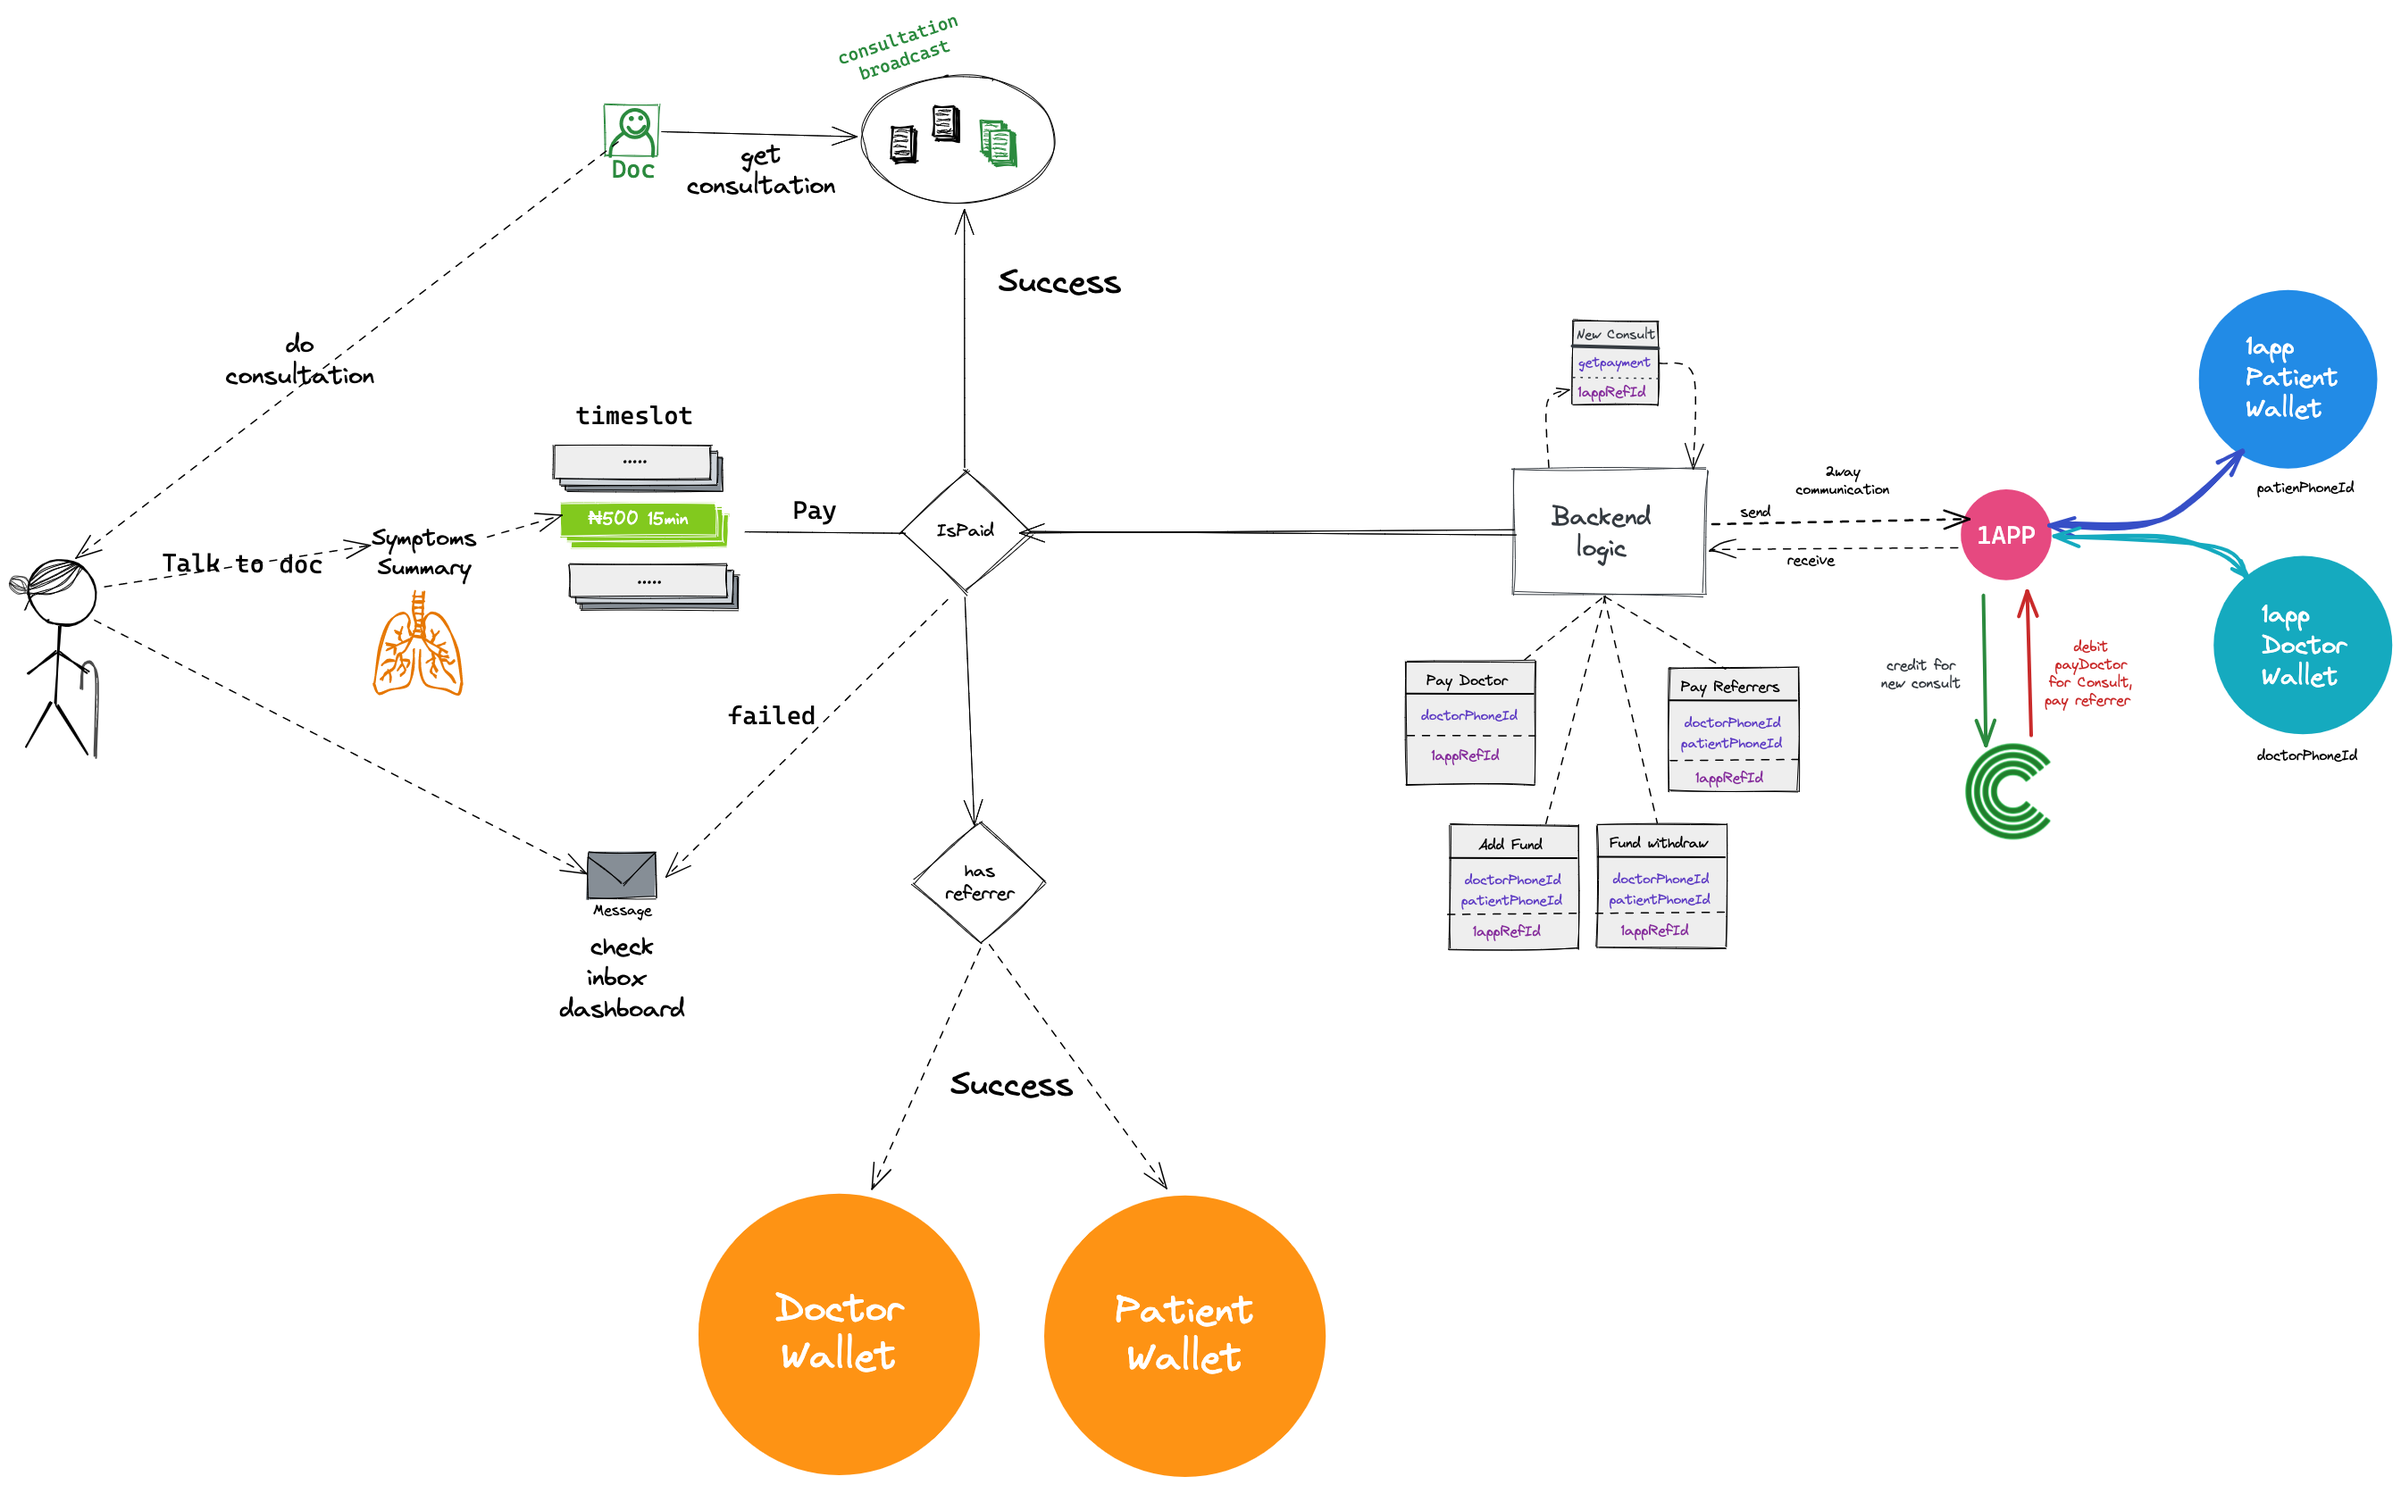
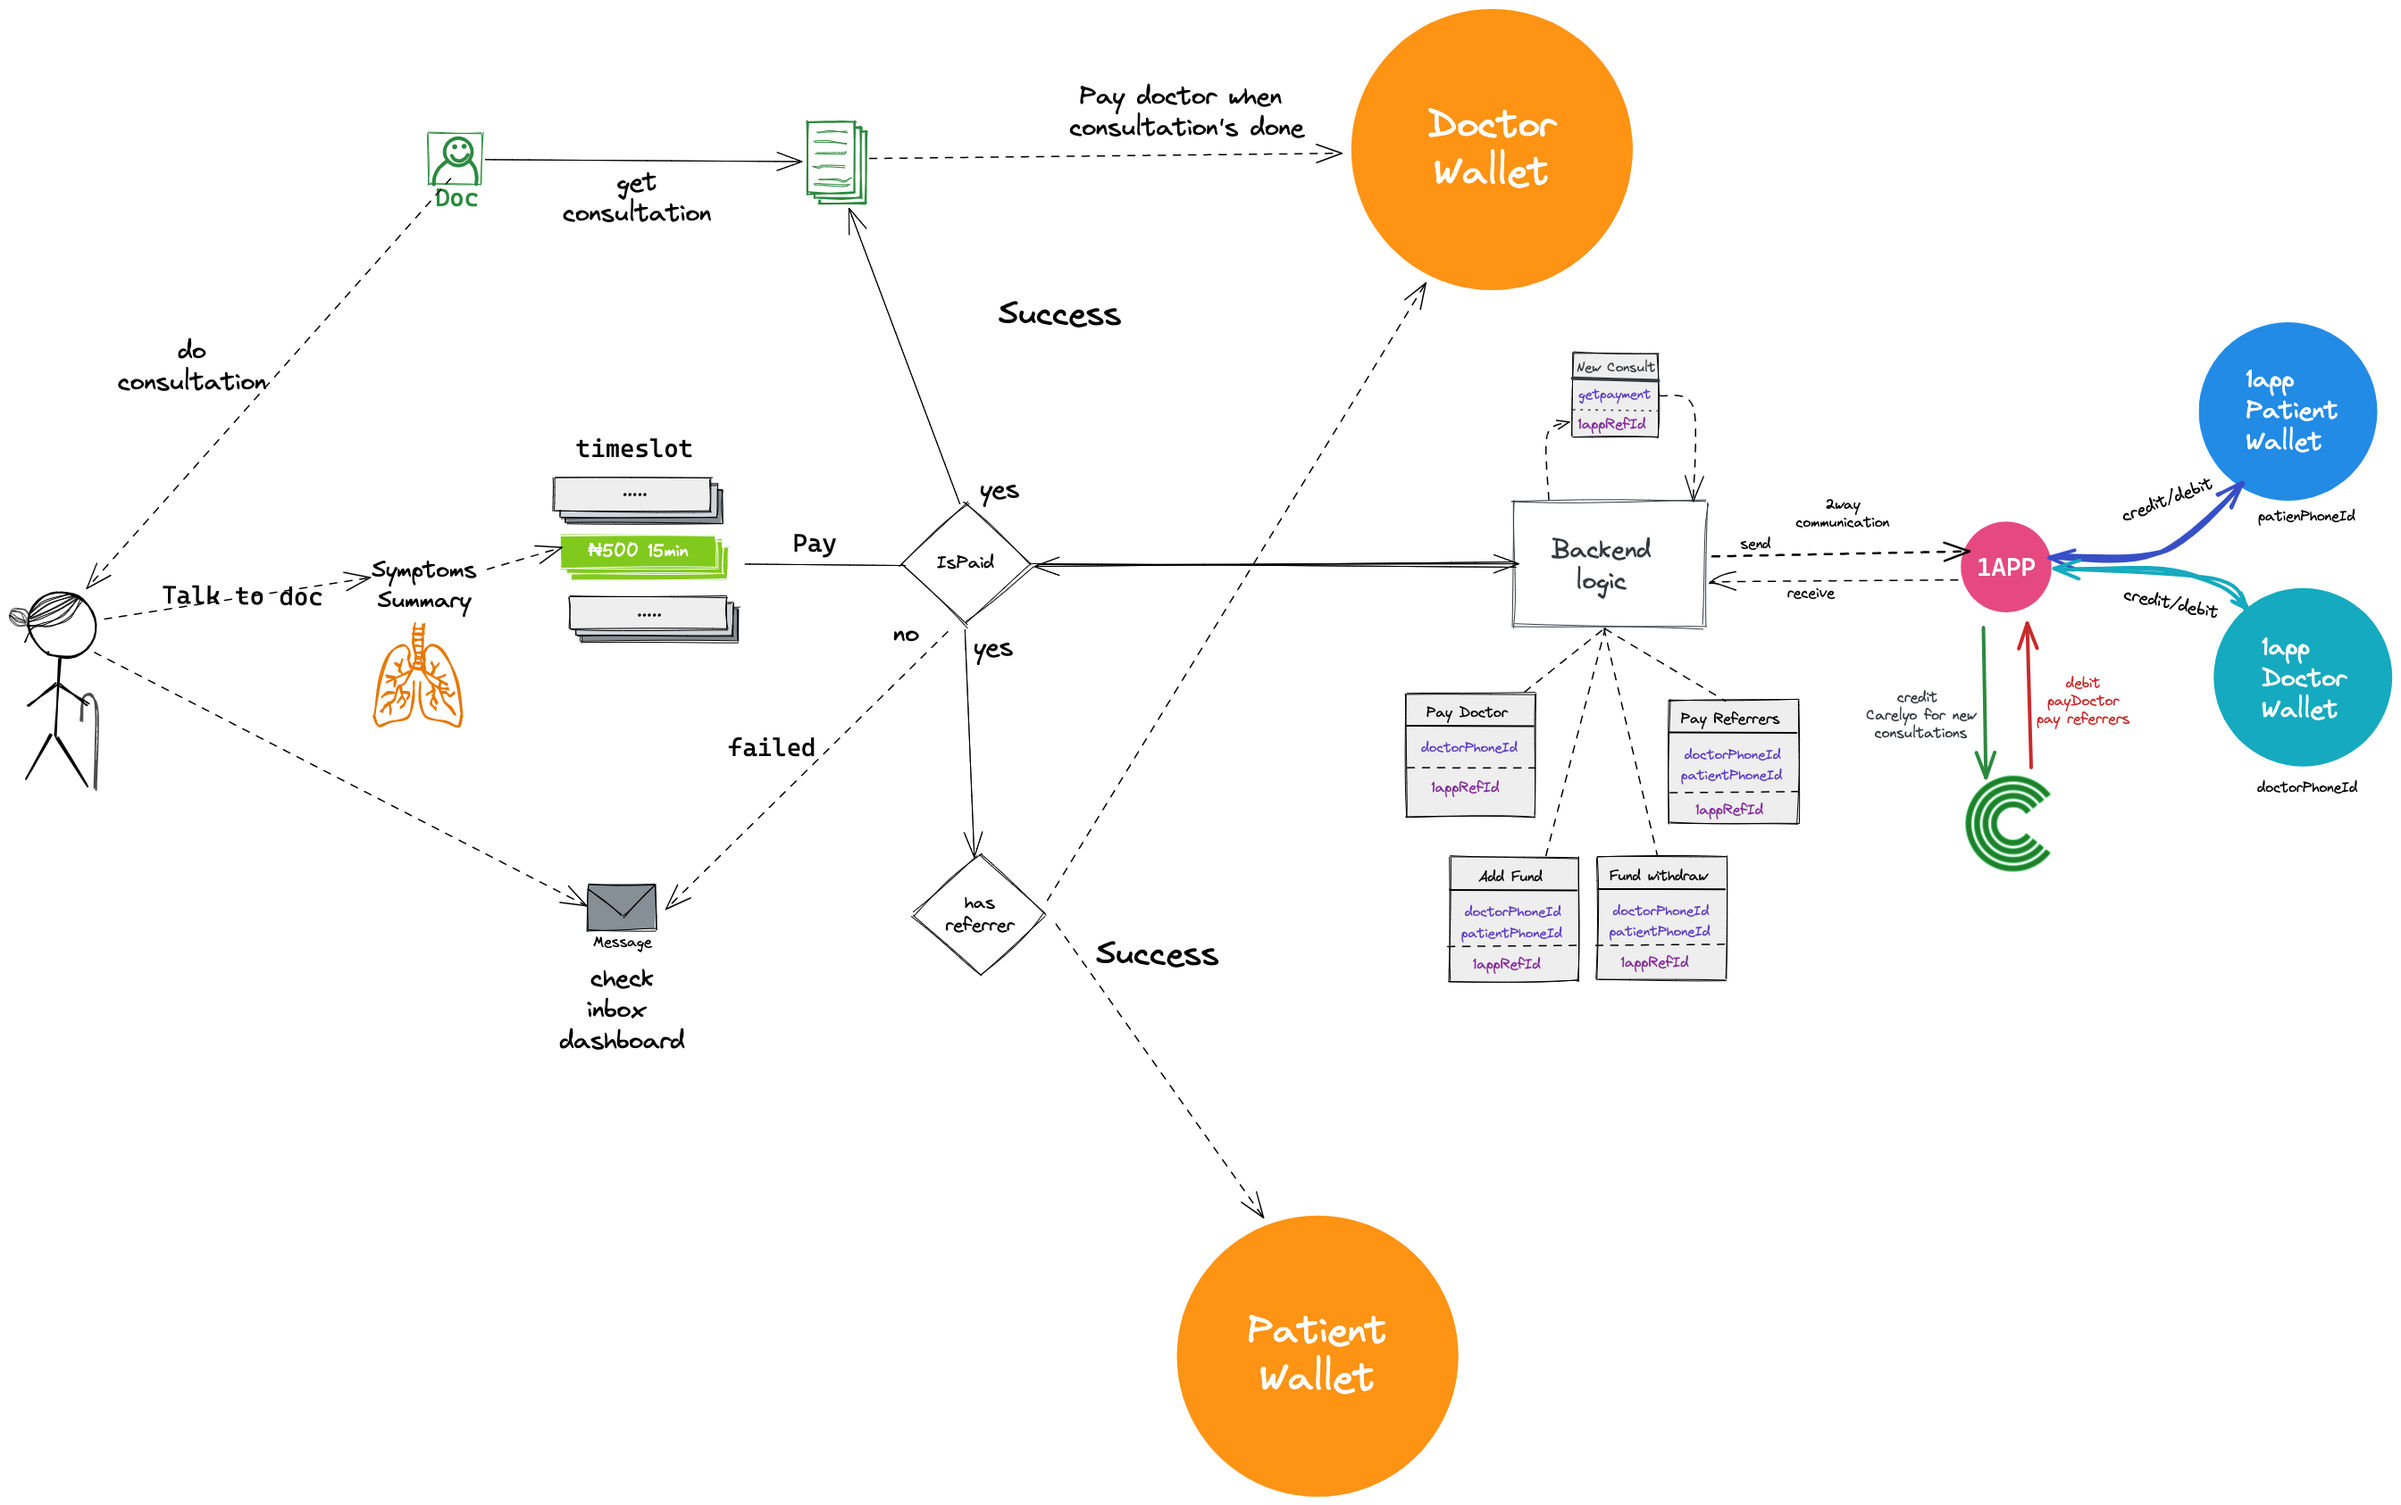
modified payment & devops

diff --git a/docs/gettingstarted/workbench/devops.md b/docs/gettingstarted/workbench/devops.md
@@ -4,11 +4,11 @@ sidebar_label: DevOps
 ---
 # Carelyo DevOps Workbench
 
-# Pipeline introduction
+## Pipeline introduction
 The basic pipeline files can be found [here](https://gitlab.com/carelyo/ci_cd-pipeline-files). 
 
-# Files
-## main.yml
+## Files
+### main.yml
 
 This is the main pipeline for building images on merge requests and pushing them to DockerHub. It's a heavily modified version of the [Docker CI/CD template from GitLab](https://gitlab.com/gitlab-org/gitlab-foss/-/blob/master/lib/gitlab/ci/templates/Docker.gitlab-ci.yml).
 
@@ -22,10 +22,10 @@ It **only** runs on Develop, Staging and main branches with a Dockerfile thanks 
 
 This can also be changed on a per-repo basis after importing ``ci_cd-pipeline-files/main.yml``.
 
-# GitLab configuration
+## GitLab configuration
 The variables used in the `gitlab-ci.yml` are set on a group-wide level through [its settings](https://gitlab.com/groups/carelyo/-/settings/ci_cd). It's also possible to set these on a per-project basis.
 
-## Variables
+### Variables
  - `CI_REGISTRY` is where the DockerHub repo URL is stored.  
  - - These variables [are masked](https://docs.gitlab.com/ee/ci/variables/index.html#mask-a-cicd-variable), meaning they won't show up in job logs in plain text.
  - - `CI_REGISTRY_PASSWORD` is the DockerHub access token. The normal password is possible too but is less secure in case someone gains access to the GitLab account. Also it's not posssible to mask certain passwords(meaning ones with special characters etc).
@@ -39,7 +39,7 @@ The variables used in the `gitlab-ci.yml` are set on a group-wide level through 
 * Log/Monitoring Server is logkib01 - 10.234.0.215
 
 
-## Checkmk
+### Checkmk
 
 Checkmk is free and open source. We are running the enterprise edition which allows us monitor 25 nodes for free. We can also us the open source version.
 
@@ -64,7 +64,7 @@ cd monitor
 touch docker-compose.yml
 ```
 
-## Edit the docker-compose file using vi
+**Edit the docker-compose file using vi**
 
 ```bash
 version: '3.1'
@@ -94,7 +94,7 @@ docker-compose up -d
 docker-compose logs -f --tail="all"
 ```
 
-## Open Firewall and Network Security Group
+### Open Firewall/Network Security Group
 
 ### Ingress Rule
 This allows only you IP to access this resource
@@ -104,7 +104,7 @@ Allow source your homeIP i.e., 10.0.0.2/32 and port 8080
 ### Login in to Checkmk server
 Server IP:8080
 
-## Add Agents
+### Add Agents
 To add anagent 
 - Clicck Setup > Agents > Windows, Linus, Solaris, AIX
 - Since we are monitoring Ubuntu, click the Linux DEB to download the agent
@@ -117,7 +117,7 @@ scp check-mk-agent_2.0.0p17-74a3d18d9c2e1ce4_all.deb ubuntuserver:/tmp
 ## install the agent
 dpkg -i check-mk-agent_2.0.0p17-74a3d18d9c2e1ce4_all.deb
 ```
-## Add Plugin to monitor docker container
+### Add Plugin to monitor docker container
 To monitor additional services you may need plugins.
 Download the plugin from the checkmk server at 
 Setup > Agents > Other operating systems or from the **internet**
@@ -150,3 +150,55 @@ global
 
 ## Block Volume Encryption
 By default all volumes and their backups are encrypted using the Oracle-provided encryption keys. Each time a volume is cloned or restored from a backup the volume is assigned a new unique encryption key. This link talks about OCI Block Volume Service [BlockVolumeEncryption](https://docs.oracle.com/en-us/iaas/Content/Block/Concepts/overview.htm#BlockVolumeEncryption)
+
+## Docker Installation
+
+### Ubuntu 20.04
+**Install docker cert**
+```bash
+sudo apt install apt-transport-https ca-certificates curl software-properties-common
+```
+```bash
+curl -fsSL https://download.docker.com/linux/ubuntu/gpg | sudo apt-key add -
+```
+**Download from the repo**
+```bash
+add-apt-repository "deb [arch=amd64] https://download.docker.com/linux/ubuntu focal stable"
+```
+```bash
+apt-cache policy docker-ce
+```
+**Install docker-ce**
+```bash
+sudo apt install docker-ce
+```
+**Add user to docker group and sudo**
+```bash
+sudo usermod -aG docker ${USER}
+```
+**Start Docker on reboot**
+```bash
+sudo systemctl enable docker.service
+```
+```bash
+sudo systemctl enable containerd.service
+```
+## Docker-compose Installation
+
+**get the docker-composer file**
+
+```bash
+sudo curl -L "https://github.com/docker/compose/releases/download/1.29.2/docker-compose-$(uname -s)-$(uname -m)" -o /usr/local/bin/docker-compose
+```
+
+**Make it executable**
+```bash
+sudo chmod +x /usr/local/bin/docker-compose
+```
+```bash
+sudo ln -s /usr/local/bin/docker-compose /usr/bin/docker-compose
+```
+**See docker-compose logs**
+```bash
+docker-compose logs -f --tail="all"
+```

diff --git a/docs/gettingstarted/services_ui/payment.md b/docs/gettingstarted/services_ui/payment.md
@@ -30,4 +30,5 @@ sidebar_label: Payment
 
 
 ## Payment Provider
-> 1app [1app](https://1app.online/)
+> 1app Payment Provider [1app](https://1app.online/)
+> ![Payment 1apppayment](../../../assets/images/payment_1app_doc.png)
